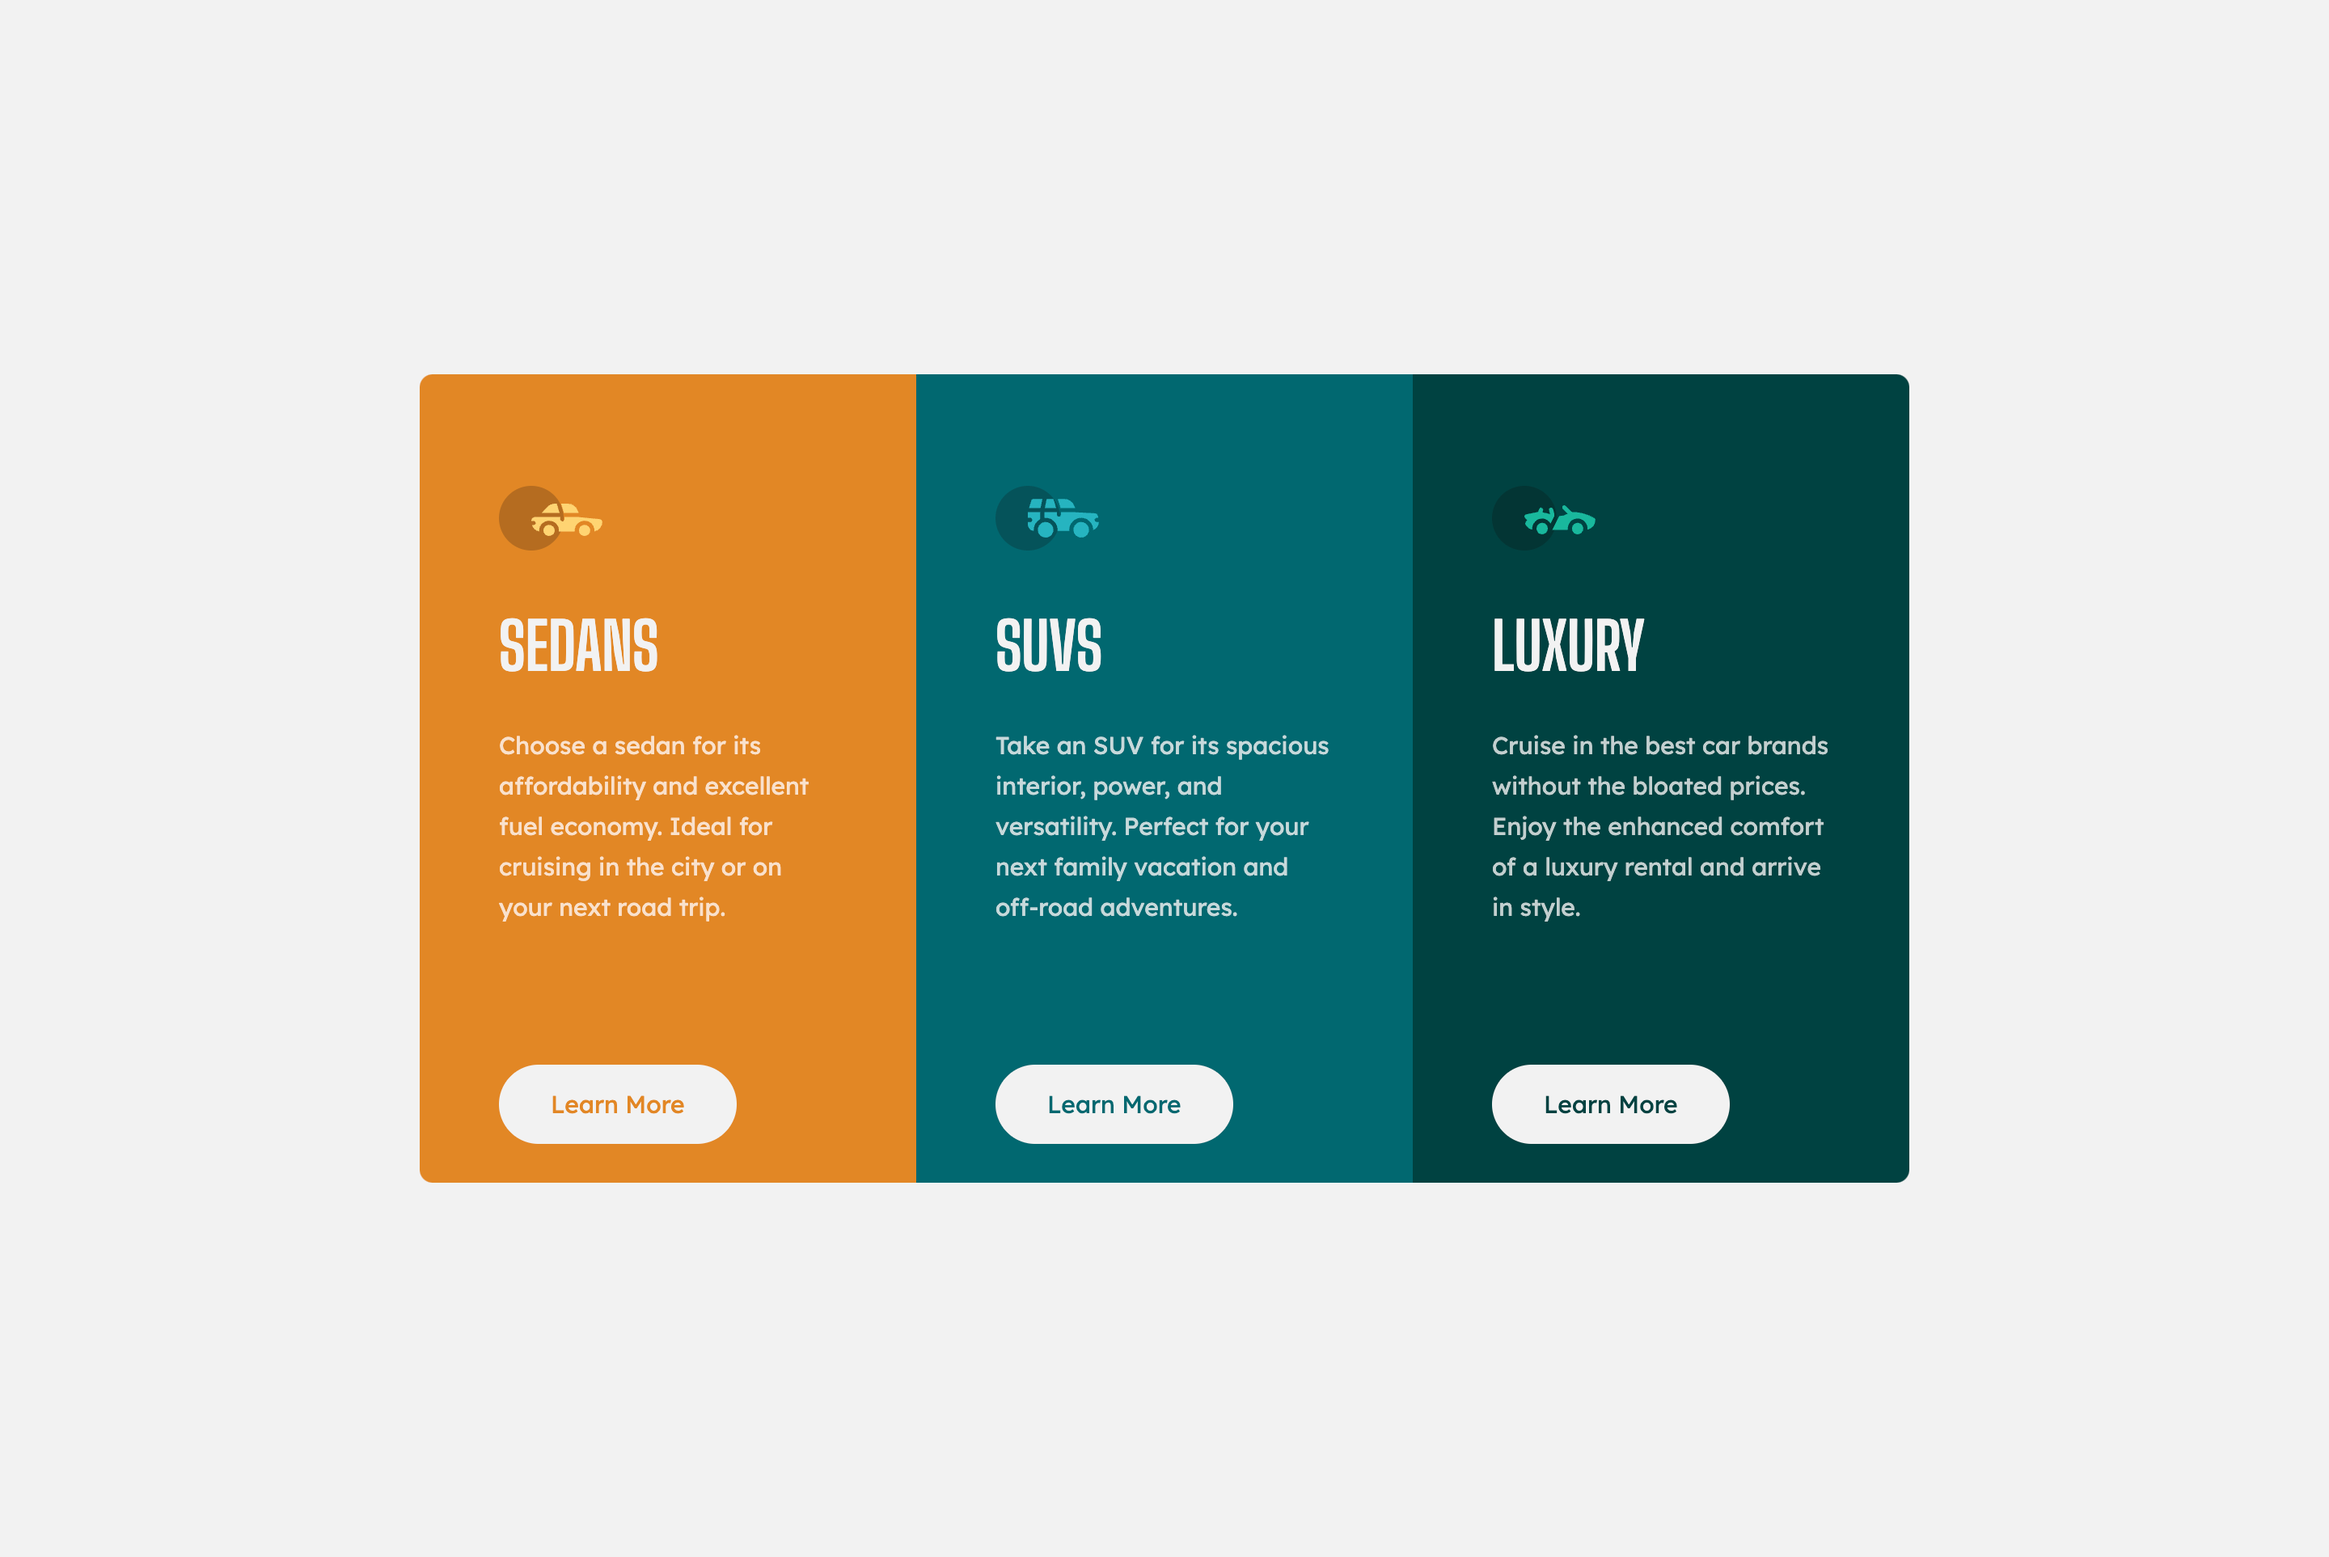
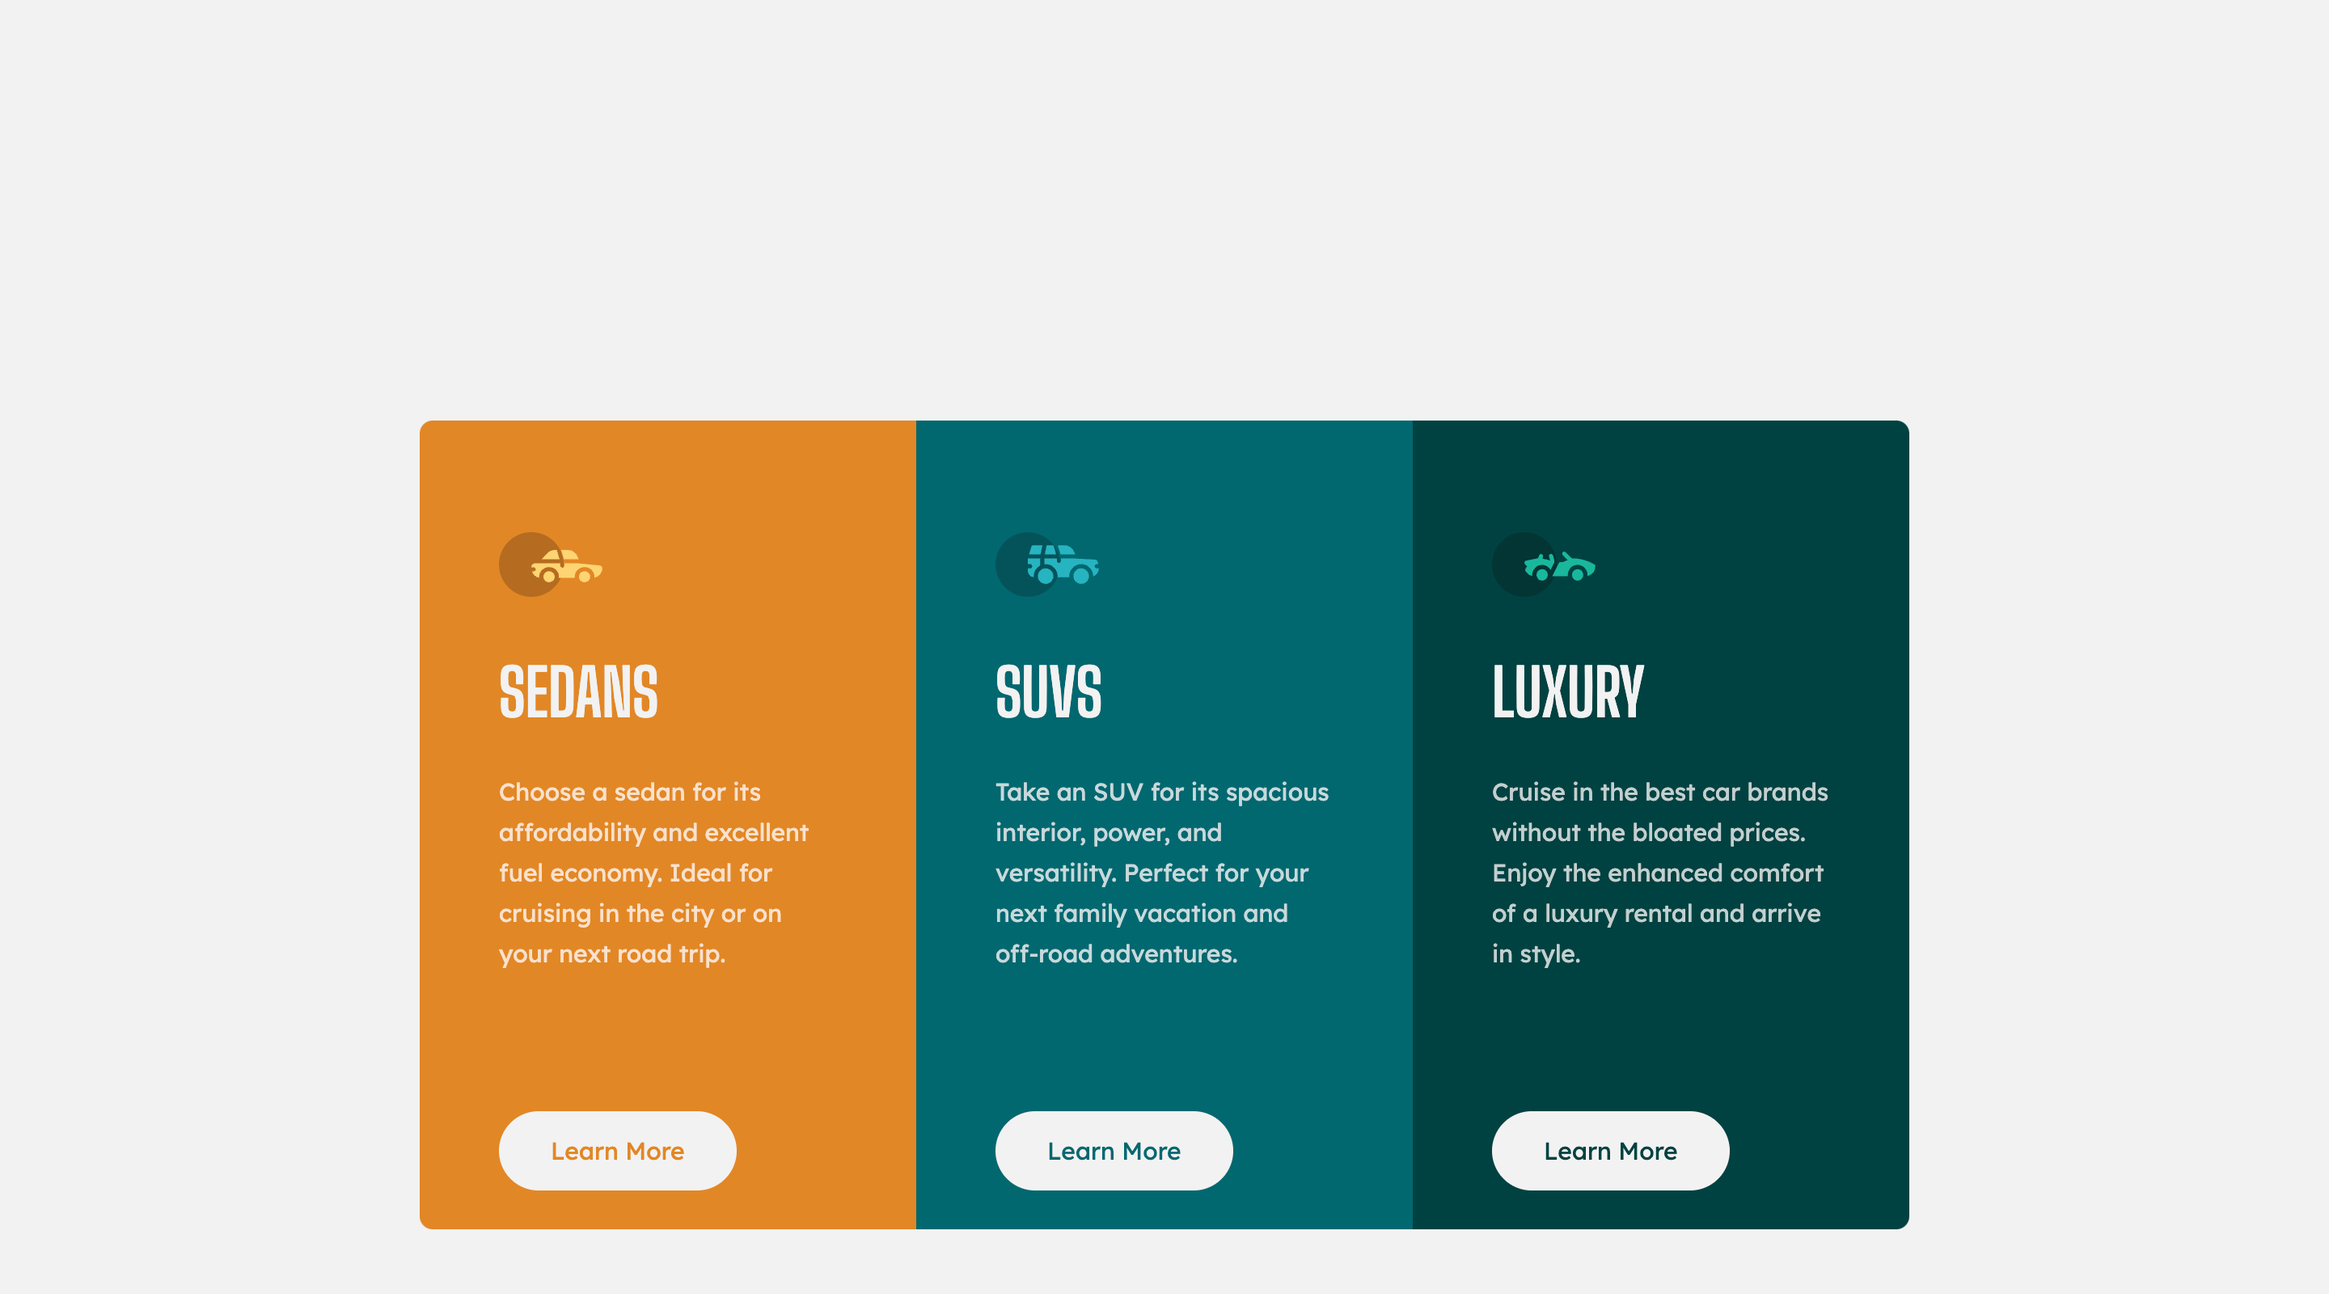
reposition the card component to match the design yop margin

Changed region(s): [[0.1562, 0.2188, 0.8438, 0.9688]]

diff --git a/style.css b/style.css
@@ -44,7 +44,7 @@ body {
   background: hsl(0deg 0% 94.9%);
 }
 
-/* Layout */
+/* Mobile layout */
 
 .cards {
   margin: auto;
@@ -160,17 +160,15 @@ footer {
   color: hsl(228, 45%, 44%);
 }
 
+/* Desktop layout */
+
 @media (min-width: 1440px) {
-  main {
-    height: 100vh;
-    width: 100vw;
-  }
   .cards {
-    width: 100%;
-    height: 100%;
     grid-template-columns: repeat(3, auto);
     grid-template-rows: auto;
-    margin: auto auto;
+    align-items: start;
+    justify-content: center;
+    margin-top: 260px;
   }
 
   .card {
